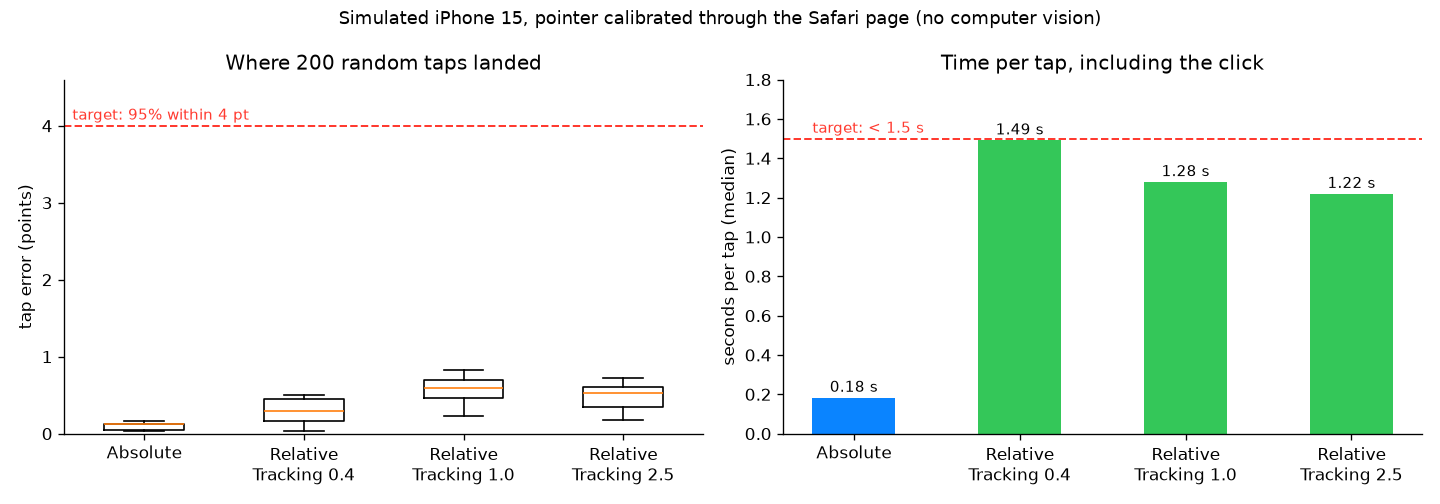
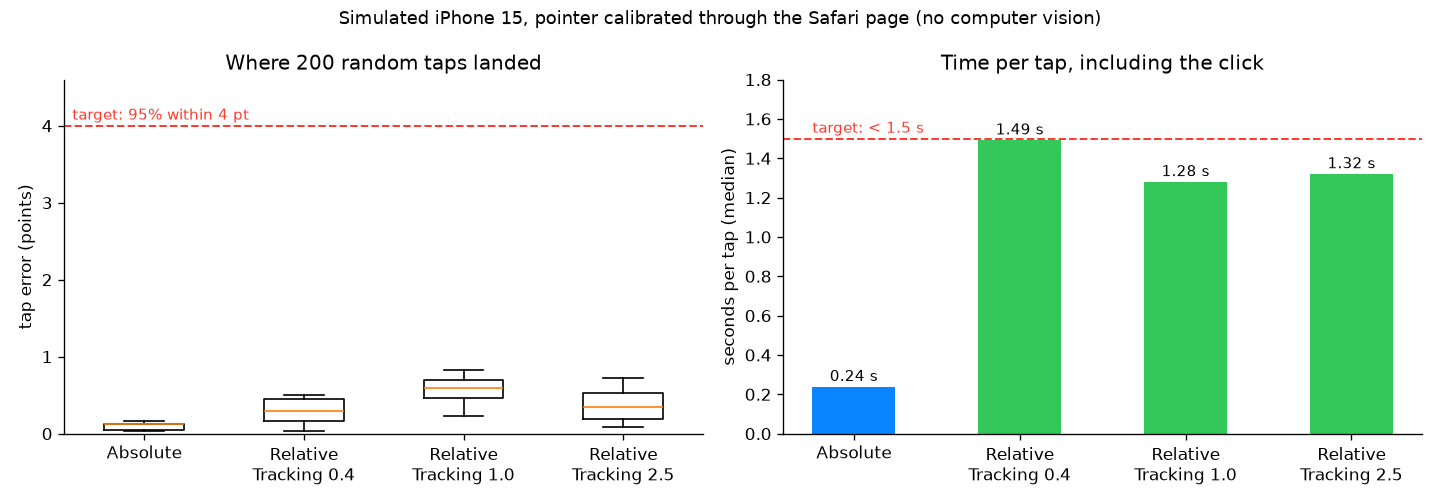
README figures regenerated on the USB-C-only simulator
Claude-Session: https://claude.ai/code/session_01EUDgAy5nU6wYzfaiaKBwjy

Changed region(s): [[0.4062, 0.744, 0.4688, 0.8631], [0.9062, 0.3274, 0.9688, 0.3869], [0.5625, 0.744, 0.625, 0.8036]]

diff --git a/README.md b/README.md
@@ -77,7 +77,7 @@ ways to do that. Calibration picks the right one for each phone automatically.
 ![Absolute and relative pointer modes](docs/images/pointer-modes.png)
 
 - **Absolute pointer (preferred).** One report puts the pointer straight on the target, like a finger.
-  About 0.2 s per tap with sub-point error. Several independent projects in 2026 drive iPhones this way
+  About a quarter of a second per tap, with sub-point error. Several independent projects in 2026 drive iPhones this way
   over USB on iOS 26, with AssistiveTouch on. The board presents the same kind of absolute pointer they
   use. iOS glides the cursor to the new spot, so calibration measures how long to wait before clicking.
 - **Relative pointer (fallback).** iOS accelerates mouse movement, so the same report does not always
@@ -145,10 +145,10 @@ Measured by the simulator (random targets across the whole screen, four configur
 
 | Mode | Worst tap error | Time per tap (median) | Calibration time |
 |---|---|---|---|
-| Absolute pointer | 0.17 pt | 0.18 s | about 8 s |
+| Absolute pointer | 0.17 pt | 0.24 s | about 9 s |
 | Relative, slow Tracking Speed (0.4) | 0.5 pt | 1.49 s | about 52 s |
 | Relative, default Tracking Speed (1.0) | 0.83 pt | 1.28 s | about 48 s |
-| Relative, fast Tracking Speed (2.5) | 0.72 pt | 1.22 s | about 48 s |
+| Relative, fast Tracking Speed (2.5) | 0.72 pt | 1.32 s | about 48 s |
 
 The target is 95% of taps within 4 pt (about 5 pixels on a 1080p picture). On a real phone, relative
 mode is the one to watch: its accuracy depends on how repeatable iOS pointer acceleration is, which
@@ -246,7 +246,7 @@ Home, App Switcher, Spotlight, typing and calibration are one click away.
 | Metric | Target | On the simulator |
 |---|---|---|
 | Tap accuracy | 95% within 4 pt | absolute ≤ 0.2 pt; relative ≤ 1 pt |
-| Time per tap | < 1.5 s | absolute ≈ 0.2 s; relative 1.2–1.5 s |
+| Time per tap | < 1.5 s | absolute ≈ 0.25 s; relative 1.3–1.5 s |
 | Video latency to the browser (LAN) | < 0.25 s | to be measured on the board |
 | Commands lost without notice | 0 | every report confirmed; failures are redone or reported |
 
